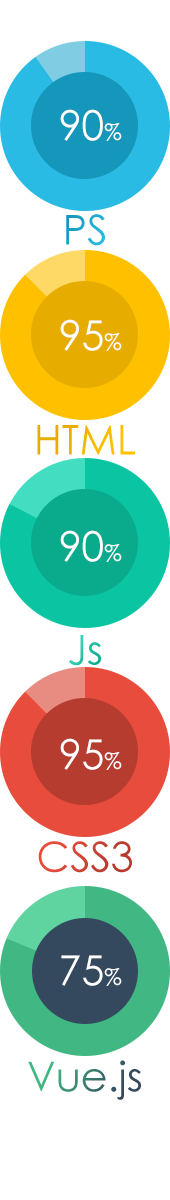
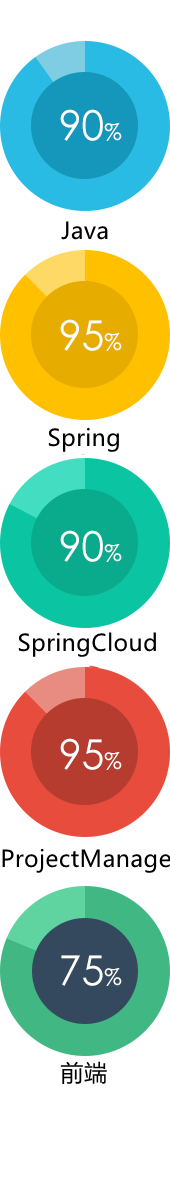
1

diff --git a/jun_jianli/index.html b/jun_jianli/index.html
@@ -106,7 +106,7 @@
         	<p class="mb30">
             	<span class="img_bg title_jn">个人技能</span>
             </p>
-            <!-- 
+            <!-- -->
         	<p>
                 <span class="zhishi zhishi_1"></span>
                 </p>
@@ -116,8 +116,9 @@
             <p class="mb20">
                 <span class="zhishi zhishi_3"></span>
             </p>
-            -->
+            
             <div class="list_icon">
+				<!-- 
                 <p class="icon_cell icon_cell_1">
                     <span class="icon_ico img_bg"></span>
                     <span class="icon_txt img_bg"></span>
@@ -137,7 +138,13 @@
                 <p class="icon_cell icon_cell_5">
                     <span class="icon_ico img_bg"></span>
                     <span class="icon_txt img_bg"></span>
-                </p>
+                </p> 
+				
+
+				
+				-->
+				
+				 
                 <div class="txt_intro"> 
                     <p>●Java基础：手写23种Java设计模式、熟悉常用算法数据结构，JVM调优，线程池、异步编程、NIO、高并发分布式等；  ●前端：熟练使用JS、Jquery、Vue、Ajax跨域表单处理及各种JQueryUI/EasyUI、Extjs、Bootstrap、VUI等框架组件；  </p>
                     <p>●JavaWeb：熟悉Servlet3.0、DBUtil及SpringMVC、Spring、MyBatis、Struts1.x\ 2.x、Hibernate等框架技术；  </p>
@@ -161,139 +168,170 @@
         	<p class="mb30">
                 <span class="title_1">工作经历</span>
             </p>
-        	<p>
+			<p>
                 <span class="zhishi zhishi_1"></span>
             </p>
+			 <!--
+        	
             <p>
                 <span class="zhishi zhishi_2"></span>
             </p>
             <p class="mb20">
                 <span class="zhishi zhishi_3"></span>
             </p>
+			-->
             <div class="container container_1000 m_center cf">
             	<div class="container_case" style="height:50%;">
                     <div class="container wrap_case cf" id="js_wrap_case">
                         <ul class="list_case focus">
                         	<li class="cell" style="width:100%;min-height:10px;margin-bottom:10px;">
-                            	<div><span class="title">公司名称：</span>武汉明源动力软件有限公司</div>
-                                <div><span class="title">工作时间：</span>2015年——至今</div>
-                            </li>
-                            <li class="cell">
-                            	<div><span class="title">项目名称：明源工作流</span></div>
-                                <div>
-                                	<p><span class="title">项目描述：</span>明源工作流属于明源的核心业务，但由于历史原因，使用的技术比较老旧，使用版本一直限制在IE6甚至以下的浏览器版本中，且由于大量的补丁式升级已经无法满足新的使用需求。</p>
-								</div>
-								<div>
-                                	<p><span class="title">责任描述：</span>在项目原有需求上，使用layui作为UI框架基础，gulp作为前端构建，历时多次迭代开发，本次重构中，我负责提供前端UI框架和整体架构，并负责开发底层组件供实际业务页面重复使用。</p></div>
-                            </li>
-                            <li class="cell">
-                            	<div><span class="title">项目名称：明源移动计划</span></div>
-                                <div>
-                                	<p><span class="title">项目描述：</span>明源移动计划定位与服务公司的项目计划以及实施监督，产品拥有PC端和移动端。</p>
-								</div>
-								<div>
-                                	<p><span class="title">责任描述：</span>我在本次产品中主要负责PC以及移动端的前端组件开发和业务界面开发，PC端采用组件开发模式；移动端采用Vue作为前端框架，前后端分离分类开发维护。</p></div>
+                            	<div><span class="title">公司名称：</span>中软国际服务有限公司－2018/3 ～ 至今</div>
+                                <div><span class="title">工作时间：</span>2018/3 ～ 至今</div>
                             </li>
                             <li class="cell" style="width:100%;">
-                            	<div><span class="title">项目名称：明源云售楼平台</span></div>
-                                <div>
-                                	<p><span class="title">项目描述：</span>明源云售楼平台是明源的核心产品之一，主要为各地产开发商提供集楼盘销售、管理等相关流程操作的erp，15年至17年前后经过了几次大的重构改版，本产品基于miniui作为前端UI框架，使用seajs进行前端模块化的开发，由于售楼平台复杂的业务，模块化的方式使各个业务之间的逻辑代码更加的清晰，开发人员的可维护性也大大提升。</p>
+                            	<div><span class="title">项目名称：华为DTP产品数据测试系统(2018.3~至今) ，项目经理（架构师）</span></div>
+								<div>
+                                	<p><span class="title">开发架构一期：</span>
+	                                   【项目一期】：Eclipse + WebSphere集群+ Oracle RAC+ Dubbo + CXF + Jalor5(老SSM架构)+WebService+FDI  
+
+									</p>
 								</div>
 								<div>
-                                	<p><span class="title">责任描述：</span>我在本次产品中主要负责公共组件的开发和维护，以及部分业务模块的页面界面开发维护。</p></div>
+                                	<p><span class="title">开发架构二期：</span> 
+										【项目二期】：IDEA + Maven + Docker集群+ PostgreSQL+ SpringCloud(Eureka+Config+Gataway) + SpringBoot + Jalor6(微服务架构)+ Redis + RocketMQ + Git 
+									</p>
+								</div>
+								<div>
+                                	<p><span class="title">技术架构：</span> 
+										【技术架构】：一期项目主要是单体架构的Was集群的SSM系统，二期项目转换为分布式微服务架构（新增分布式JOB、对象存储、分布式锁、 分布式缓存、消息队列等），后面数据库也切换为了PG
+									</p>
+								</div>
+								<div>
+                                	<p><span class="title">交付团队：</span> 
+										【交付团队】：本人负责DTP项目完整交付，项目人员2019年最多28人，2021年最少13人，由本人统一协调；共分两个团队，分别为测试团队3人、开发团队7人含前端1人（LMT客服1人、环境1人）；
+									</p>
+								</div>
+                                <div>
+                                	<p><span class="title">项目描述：</span>华为DTP产品配置数据测试系统是华为内部PDE使用的配置测试系统，该系统可以完成完整的BOM配置报价测试流程(主要在制造业使用较多)，大概流程如下PDE在CRS系统开发DSL代码，在CB基础数据服务维护基础数据，在DPM打包后再经过CBB合包后，到达DTP系统，完成数据的配置及测试，输出统计清单（物料、软件、服务）跟报价清单（服务、设备），供一线销售配置报价。DTP系统每两个月迭代一个版本（2020年后每个月迭代一个版本）。项目对接外部系统众多（对接CRS+DPM+CB+C-Engine+iAuth等系统），对接的方式有RPC、WebService、HTTP、FDI等；大概日用户200+，6节点服务器配置，PDE的日常的工作配置系统。</p>
+								</div>
+								<div>
+                                	<p><span class="title">责任描述：</span>【工作职责】：1、初入项目时，本人作为SE系统架构师，完成了系统的服务化改造IT方案的输出，，并完成项目的上线及功能交付；2、二期，2019年年初，本人作为项目PM，采用迭代模式每月小版本开发，本人参与了大大小小二十几个版本，每个版本完成PO的下发，业务需求的澄清，IT方案的输出，需求的串讲反串讲，协调开发完成功能设计，并参与核心功能及代码的开发。
+【工作明细】：1、DTP项目交付计划的输出 2、对接业务完成每月版本业务需求的IT方案的输出 3、串讲并澄清需求完成IT方案交接给开发。 4、协助开发PL制定项目开发计划及任务分配，指导并跟进项目开发进度。 5、对接SPM完成日常工作及风险成本控制；6、对接华为PM，完成计划输出、工作分解、代码检视等等；7、跟进LMT客服现网问题及测试问题的闭环；
+</p></div>
                             </li>
                         </ul>
                         <ul class="list_case">
-	                        <li class="cell" style="float:none;margin:0 auto;width:70%;min-height:10px;">
-                            	<div><span class="title">公司名称：</span>武汉拾艺信息技术有限公司</div>
-                                <div><span class="title">工作时间：</span>2015年——至今</div>
+	                        <li class="cell" style="width:80%;min-height:10px;margin-bottom:10px;">
+                            	<div><span class="title">公司名称：</span>软通动力技术股份有限公司(武汉分公司 2017/4 ～ 2018/3) </div>
+                                <div><span class="title">工作时间：</span>2017/4 ～ 2018/3</div>
                             </li>
-                            <li class="cell" style="float:none;margin:0 auto 30px;width:70%;min-height:10px;">
+							
+                            <li class="cell" style="width:80%;">
+                            	<div><span class="title">项目名称：华为HTM全球物流管理系统(存量+服务化 2017.4~2018.3) 项目经理（华为外包）、Java高级架构师 </span></div>
                                 <div>
-                                	<p><span class="title">工作经历：</span>武汉拾艺信息技术有限公司是本人与其他合伙人创办的一家创业型公司，主要负责与客户业务谈判以及网站的设计和前端制作，设计的产品类型和行业比较多，以PC端和移动端门户、H5交互页面为主。</p>
+                                	<p><span class="title">开发架构：</span>【开发环境】：Eclipse + Tomcat（Weblogic集群生产）+ Oracle  【使用架构】：SpringMVC + MyBatis + Spring + Webix + TypeScript+ NodeJS + Dubbo + Redis + RocketMQ + Webservice +Git+FastDFS   </p>
 								</div>
+								<div>
+                                	<p><span class="title">项目描述：</span>
+									华为HTM全球物流管理系统主要服务于华为全系产品及子系统的运输指令请求并管理监控运输流程，原存量HTM系统采购于Oracle OTM运输中间件平台，后期日落计划主要剥除存量系统，向服务化转移的过程，服务化采用业绩主流前后端分离及微服务框架开发。该系统主要功能有路线、运费、订单、承运商、物流方案、采购、出入境、清关报税、供应链、跟踪、运费支付、历史分析等。项目运行有十几年了，采用迭代模式每月小版本开发，本人参与了大大小小十几个版本。项目根据业务分三大模块计划指令（本人作为PM管理），委托运输、存量、TTS清关
+									</p>
+								</div>
+								<div>
+                                	<p><span class="title">责任描述：</span>
+									【责任描述】：1、HTM项目计划指令模块的日常管理 2、配合BA完成每月版本业务需求的开发及功能优化 。3、修复客户提出的Bug并处理生产问题。  4、制定项目开发计划及任务分配，指导并跟进项目开发进度。
+									</p></div>
                             </li>
-                            
-                            <li class="cell" style="float:none;margin:0 auto;width:70%;min-height:10px;">
-                            	<div><span class="title">公司名称：</span>武汉武汉尚软科技有限公司</div>
-                                <div><span class="title">工作时间：</span>2013.09-2014.03</div>
+							
+                        </ul>
+                        <ul class="list_case">
+	                        <li class="cell" style="width:100%;min-height:10px;margin-bottom:10px;">
+                            	<div><span class="title">公司名称：</span>北京宇信科技集团股份有限公司(武汉分公司 2014/9 ～ 2017/1)  Java高级架构师、项目经理</div>
+                                <div><span class="title">工作时间：</span>2014/9 ～ 2017/1</div>
                             </li>
-                            <li class="cell" style="float:none;margin:0 auto 30px;width:70%;min-height:10px;">
+                            <li class="cell">
+                            	<div><span class="title">项目名称：浦发银行公共信息管理系统(2016.8-2017.3 上海) ，项目经理 </span></div>
+								<div>
+                                	<p><span class="title">开发架构：</span> Oracle + SpringMVC + SpringJDBC+ + JBPM+EasyUI   </p>
+								</div>
                                 <div>
-                                	<p><span class="title">工作经历：</span>武汉尚软属于一个外包性的互联网服务公司，在公司内担任前端主管的职位，负责公司内部重要外包任务的开发，参与开发了几个大型的网站前端开发以及网站UI设计工作，同事负责协调公司内部其他前端开发的进度和质量。</p>
+                                	<p><span class="title">项目描述：</span>银行参数设置业务涉及应用系统繁多，同时缺少统一设置渠道，需要逐步构建精简高效的参数管理体系。公共信息管理系统建设项目旨在建立一个参数设置流程规范、参数设置渠道与入口统一、风险控制手段丰富的公共信息系统，并具备灵活、可扩展的配置化的参数管理功能。</p>
 								</div>
+								<div>
+                                	<p><span class="title">责任描述：</span>
+										该项目本人担任项目经理，负责系统架构和关键功能的设计和开发，负责一些技术攻关和技术组件的设计开发，分配项目开发任务及各个人员的工作内容，控制项目进度，指导项目组其他项目组成员帮助其完成分配任务，目前项目已经上线。1、负责业务需求把控、挖掘，功能开发、测试；2、负责项目的架构设计和核心模块设计；3、负责信息化产品的研发与开发工作；4、主导技术难题攻关，重构系统，保证高性能处理和系统的稳定性；5、配合业务完成相应的工作；6、负责公司软件项目开发并提供技术支持。
+									</p></div>
                             </li>
-                            
-                            <li class="cell" style="float:none;margin:0 auto;width:70%;min-height:10px;">
-                            	<div><span class="title">公司名称：</span>武汉千军软件有限公司</div>
-                                <div><span class="title">工作时间：</span>2012.07-2013.09</div>
-                            </li>
-                            <li class="cell" style="float:none;margin:0 auto;width:70%;min-height:10px;">
+                            <li class="cell">
+                            	<div><span class="title">项目名称：长沙银行新报表平台(2016.2-2016.6 长沙 )，架构师</span></div>
+								<div>
+                                	<p><span class="title">开发架构：</span> SpringMVC+Hibernate(ibatis，jdbc)+Spring+JQuery+LigerUI+MySql+润乾报表+Hadoop    </p>
+								</div>
                                 <div>
-                                	<p><span class="title">工作经历：</span>主要负责公司自有产品的前端开发以及产品UI界面设计工作，参与了产品的UI设计、产品规划以及前端的开发和功能实现。</p>
+                                	<p><span class="title">项目描述：</span>长沙银行新报表平台项目是长沙银行对旧报表平台进行改造升级的项目，其中含有老报表数据迁移，新报表数据开发，第三方报表数据集成等。由于长沙银行核心改造，由Oracle迁移到Hadoop，故相关涉及到的系统均改造升级或者重新开发，本系统正在此背景下应运而生。项目前台使用Nginx+Tomcat作为负载均衡，其中数据库使用Mysql读写分离，数据处理使用Hadoop及Shell脚本 。</p>
 								</div>
+								<div>
+                                	<p><span class="title">责任描述：</span>目前本项目正在进行中，该系统自去年年底立项，项目需求较为固定，由于行内各报表变化不大，表头及科目有调整但是整体来说并不大，项目整体划分为包人月，分四期上线，目前一期17张报表，二期44张报表均已上线，其中本人主导并协助相关开发人员进行报表平台的前台功能的开发测试及数据处理等事项。</p></div>
+                            </li>
+							<li class="cell">
+                            	<div><span class="title">项目名称：武汉农商CRM系统(2015.8-2016.2 武汉)，Java高级开发 </span></div>
+								<div>
+                                	<p><span class="title">开发架构：</span> Struts2 + JPA + Spring+ Extjs +USE+Oracle +USE(统一调度平台)+Oracle+Shell    </p>
+								</div>
+                                <div>
+                                	<p><span class="title">项目描述：</span>武汉农村商业银行CRM项目，搭建银行客户关系数据集市，建立CRM管理基础应用平台以及信息整合平台，系统建设按照对公、对私一体化建设的思路及对公、对私松耦合、模块化设计，主要实现客户视图统一展示与维护平台；统计客户综合贡献度，实现客户价值评级模型，实现基础的客户细分模型；产品信息展示以及差异化用户工作平台；客户经理认定与管理；实现差异化的客户管理体系、建立全面统一的营销服务体系，构建基础的业务综合应用处理平台；并实现客户维度统计分析的建设。</p>
+								</div>
+								<div>
+                                	<p><span class="title">责任描述：</span>在该项目本人参与了需求调研，系统设计，代码开发，功能测试，系统联调，上线维护等整个项目周期，其中本人主导并协助相关开发人员负责客户视图模块，客户群视图模块，客户灵活查询模块，营销模块模块，产品模块模块，客户短信平台模块。指导并参与单元测试、集成测试、联调测试、压力测试等工作。</p></div>
+                            </li>
+                            <li class="cell">
+                            	<div><span class="title">项目名称：武汉农商ECIF系统(2014.10-2015.8 武汉 ) ，Java高级开发</span></div>
+								<div>
+                                	<p><span class="title">开发架构：</span> SpringMVC + JPA + Spring+ JQuery+LIgerUI+USE(统一调度平台)+Oracle+Shell   </p>
+								</div>
+                                <div>
+                                	<p><span class="title">项目描述：</span>武汉农商银行拟通过建设全行级客户管理系统，对分散在各业务系统的客户信息进行整合与管理，为各业务系统提供必要的、统一的、标准的客户信息服务，从而降低业务风险，提高服务水平和产品营销转化率。统一客户信息平台（ECIF）项目是武汉农商银行IT基础架构的重要项目，该项目的建设工作涉及到行里现有多个业务系统的改造工作，包括核心、信贷、国际结算、理财、中间业务、网银和手机银行、票据、客服中心、贷记卡等，按照“总体规划、分步实施、动态调整、逐步改进”的原则，统一客户信息平台（ECIF）项目分为两期建设工作。</p>
+								</div>
+								<div>
+                                	<p><span class="title">责任描述：</span>在该项目本人参与了需求调研，系统设计，代码开发，功能测试，系统联调，上线维护等整个项目周期，其中本人负责理财、国结、核心得需求调研，参与数据处理中的数据清理调度脚本及存储过程的开发及测试，主导前台功能界面的开发及测试，参与对外接口服务的开发（含调用及被调用）。参与单元测试、集成测试、联调测试、并主导压力测试等工作。 </p></div>
                             </li>
                         </ul>
                         <ul class="list_case">
-	                        <li class="cell" style="float:none;margin:0 auto;width:70%;min-height:10px;">
-                            	<div><span class="title">公司名称：</span>武汉拾艺信息技术有限公司</div>
-                                <div><span class="title">工作时间：</span>2015年——至今</div>
-                            </li>
-                            <li class="cell" style="float:none;margin:0 auto 30px;width:70%;min-height:10px;">
+	                        <li class="cell" style="width:100%;min-height:10px;margin-bottom:10px;">
+                            	<div><span class="title">公司名称：</span>广州海闻软件技术有限公司(北京分公司 Java高级软件工程师)</div>
+                                <div><span class="title">工作时间：</span>2011/8 ～ 2014/6 </div>
+                            </li> 
+                            <li class="cell" style="width:100%;">
+                            	<div><span class="title">项目名称：众环海华ERP系统(2013.5-2014.8 武汉) </span></div>
                                 <div>
-                                	<p><span class="title">工作经历：</span>武汉拾艺信息技术有限公司是本人与其他合伙人创办的一家创业型公司，主要负责与客户业务谈判以及网站的设计和前端制作，设计的产品类型和行业比较多，以PC端和移动端门户、H5交互页面为主。</p>
+                                	<p><span class="title">开发架构：</span>【开发环境】：MyEclipse + Tomcat（JBoss生产）+ Oracle   【使用架构】：SpringMVC + SpringJDBC+ Spring + JBPM+JQuery+EasyUI   </p>
 								</div>
+								<div>
+                                	<p><span class="title">项目描述：</span>中国航油集团税务管理系统总体目标旨在搭建税务管理信息化工作平台，规范集团税款计算及纳税申报，减少人为计算差错及手工操作量，以提高工作效率；加强税务风险防范，明确岗位职责，规范审核及审批流程等，最终达到提升税务管理水平的目的。该项目含有基础设置、数据采集、纳税申报、风险管控、查询统计、发票、档案及其他等模块  </p>
+								</div>
+								<div>
+                                	<p><span class="title">责任描述：</span>在入职后即加入该项目组，当时该项目基本处于后开发阶段，拟上线试运行，在该项目中本人的工作主要是开发及维护现有代码等，并进行二次开发，主要负责附加税费的开发及其他小税种的处理，另本人协助其他开发人员完成各种开发任务及各种功能实现等等。</p></div>
                             </li>
-                            
-                            <li class="cell" style="float:none;margin:0 auto;width:70%;min-height:10px;">
-                            	<div><span class="title">公司名称：</span>武汉武汉尚软科技有限公司</div>
-                                <div><span class="title">工作时间：</span>2013.09-2014.03</div>
-                            </li>
-                            <li class="cell" style="float:none;margin:0 auto 30px;width:70%;min-height:10px;">
+							<li class="cell">
+                            	<div><span class="title">项目名称：中国航油税务管理信息系统(2012.8-2013.5 北京) </span></div>
+								<div>
+                                	<p><span class="title">开发架构：</span>【开发环境】：MyEclipse + Tomcat（JBoss生产）+ Oracle   【使用架构】：SpringMVC + SpringJDBC+ Spring + JBPM+JQuery+EasyUI   </p>
+								</div>
                                 <div>
-                                	<p><span class="title">工作经历：</span>武汉尚软属于一个外包性的互联网服务公司，在公司内担任前端主管的职位，负责公司内部重要外包任务的开发，参与开发了几个大型的网站前端开发以及网站UI设计工作，同事负责协调公司内部其他前端开发的进度和质量。</p>
+                                	<p><span class="title">项目描述：</span>中国航油集团税务管理系统总体目标旨在搭建税务管理信息化工作平台，规范集团税款计算及纳税申报，减少人为计算差错及手工操作量，以提高工作效率；加强税务风险防范，明确岗位职责，规范审核及审批流程等，最终达到提升税务管理水平的目的。该项目含有基础设置、数据采集、纳税申报、风险管控、查询统计、发票、档案及其他等模块 。</p>
 								</div>
+								<div>
+                                	<p><span class="title">责任描述：</span>在北京后即加入该项目组，当时该项目基本处于后开发阶段，拟上线试运行，在该项目中本人的工作主要是开发及维护现有代码等，并进行二次开发，主要负责附加税费的开发及其他小税种的处理，另本人协助其他开发人员完成各种开发任务及各种功能实现等等。。</p></div>
                             </li>
-                            
-                            <li class="cell" style="float:none;margin:0 auto;width:70%;min-height:10px;">
-                            	<div><span class="title">公司名称：</span>武汉千军软件有限公司</div>
-                                <div><span class="title">工作时间：</span>2012.07-2013.09</div>
-                            </li>
-                            <li class="cell" style="float:none;margin:0 auto;width:70%;min-height:10px;">
+                            <li class="cell">
+                            	<div><span class="title">项目名称：众环海华协同办公管理信息系统(2011.8-2012.8 武汉)</span></div>
+								<div>
+                                	<p><span class="title">开发架构：</span>【开发环境】：MyEclipse + Tomcat（JBoss生产）+ Oracle   【使用架构】：SpringMVC + SpringJDBC+ Spring + JBPM+JQuery+EasyUI   </p>
+								</div>
                                 <div>
-                                	<p><span class="title">工作经历：</span>主要负责公司自有产品的前端开发以及产品UI界面设计工作，参与了产品的UI设计、产品规划以及前端的开发和功能实现。</p>
+                                	<p><span class="title">项目描述：</span>协同办公系统（OA、MIS、HR、CRM等）本系统提供完善的各项资源档案保存方案，使管理者更加简洁、高效、准确的把握公司各项资源信息。</p>
 								</div>
-                            </li>
-                        </ul>
-                        <ul class="list_case">
-	                        <li class="cell" style="float:none;margin:0 auto;width:70%;min-height:10px;">
-                            	<div><span class="title">公司名称：</span>武汉拾艺信息技术有限公司</div>
-                                <div><span class="title">工作时间：</span>2015年——至今</div>
-                            </li>
-                            <li class="cell" style="float:none;margin:0 auto 30px;width:70%;min-height:10px;">
-                                <div>
-                                	<p><span class="title">工作经历：</span>武汉拾艺信息技术有限公司是本人与其他合伙人创办的一家创业型公司，主要负责与客户业务谈判以及网站的设计和前端制作，设计的产品类型和行业比较多，以PC端和移动端门户、H5交互页面为主。</p>
-								</div>
-                            </li>
-                            
-                            <li class="cell" style="float:none;margin:0 auto;width:70%;min-height:10px;">
-                            	<div><span class="title">公司名称：</span>武汉武汉尚软科技有限公司</div>
-                                <div><span class="title">工作时间：</span>2013.09-2014.03</div>
-                            </li>
-                            <li class="cell" style="float:none;margin:0 auto 30px;width:70%;min-height:10px;">
-                                <div>
-                                	<p><span class="title">工作经历：</span>武汉尚软属于一个外包性的互联网服务公司，在公司内担任前端主管的职位，负责公司内部重要外包任务的开发，参与开发了几个大型的网站前端开发以及网站UI设计工作，同事负责协调公司内部其他前端开发的进度和质量。</p>
-								</div>
-                            </li>
-                            
-                            <li class="cell" style="float:none;margin:0 auto;width:70%;min-height:10px;">
-                            	<div><span class="title">公司名称：</span>武汉千军软件有限公司</div>
-                                <div><span class="title">工作时间：</span>2012.07-2013.09</div>
-                            </li>
-                            <li class="cell" style="float:none;margin:0 auto;width:70%;min-height:10px;">
-                                <div>
-                                	<p><span class="title">工作经历：</span>主要负责公司自有产品的前端开发以及产品UI界面设计工作，参与了产品的UI设计、产品规划以及前端的开发和功能实现。</p>
-								</div>
+								<div>
+                                	<p><span class="title">责任描述：</span>该项目是本人参加的第一个项目，在项目中本人积极与各同仁沟通并协调各种工作，本项目为公司内部成熟产品，主要为完善并维护现有功能并实现新近需求等，在本项目中本人主要负责人事管理，员工信息模块及员工附属信息等功能的开发及维护工作等。</p></div>
                             </li>
                         </ul>
                     </div>
